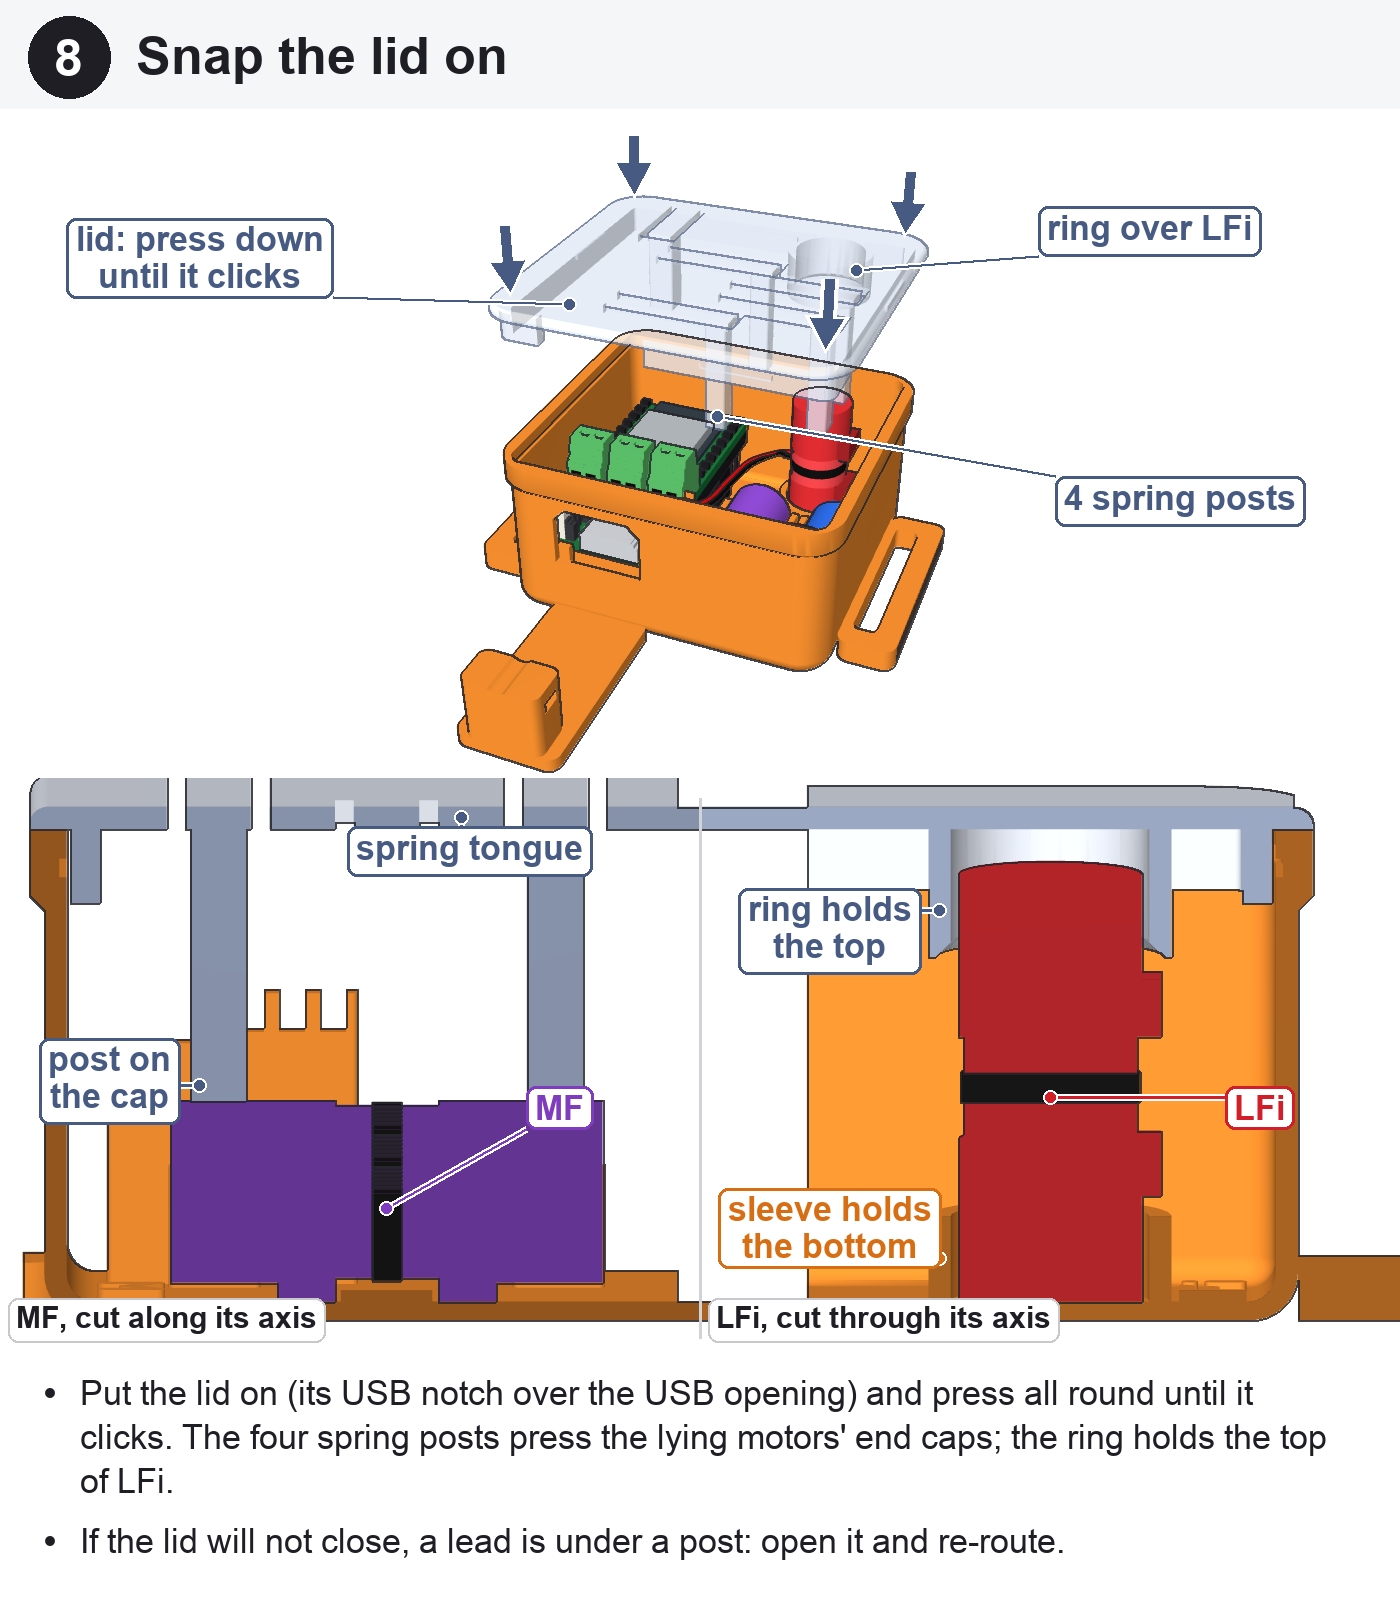
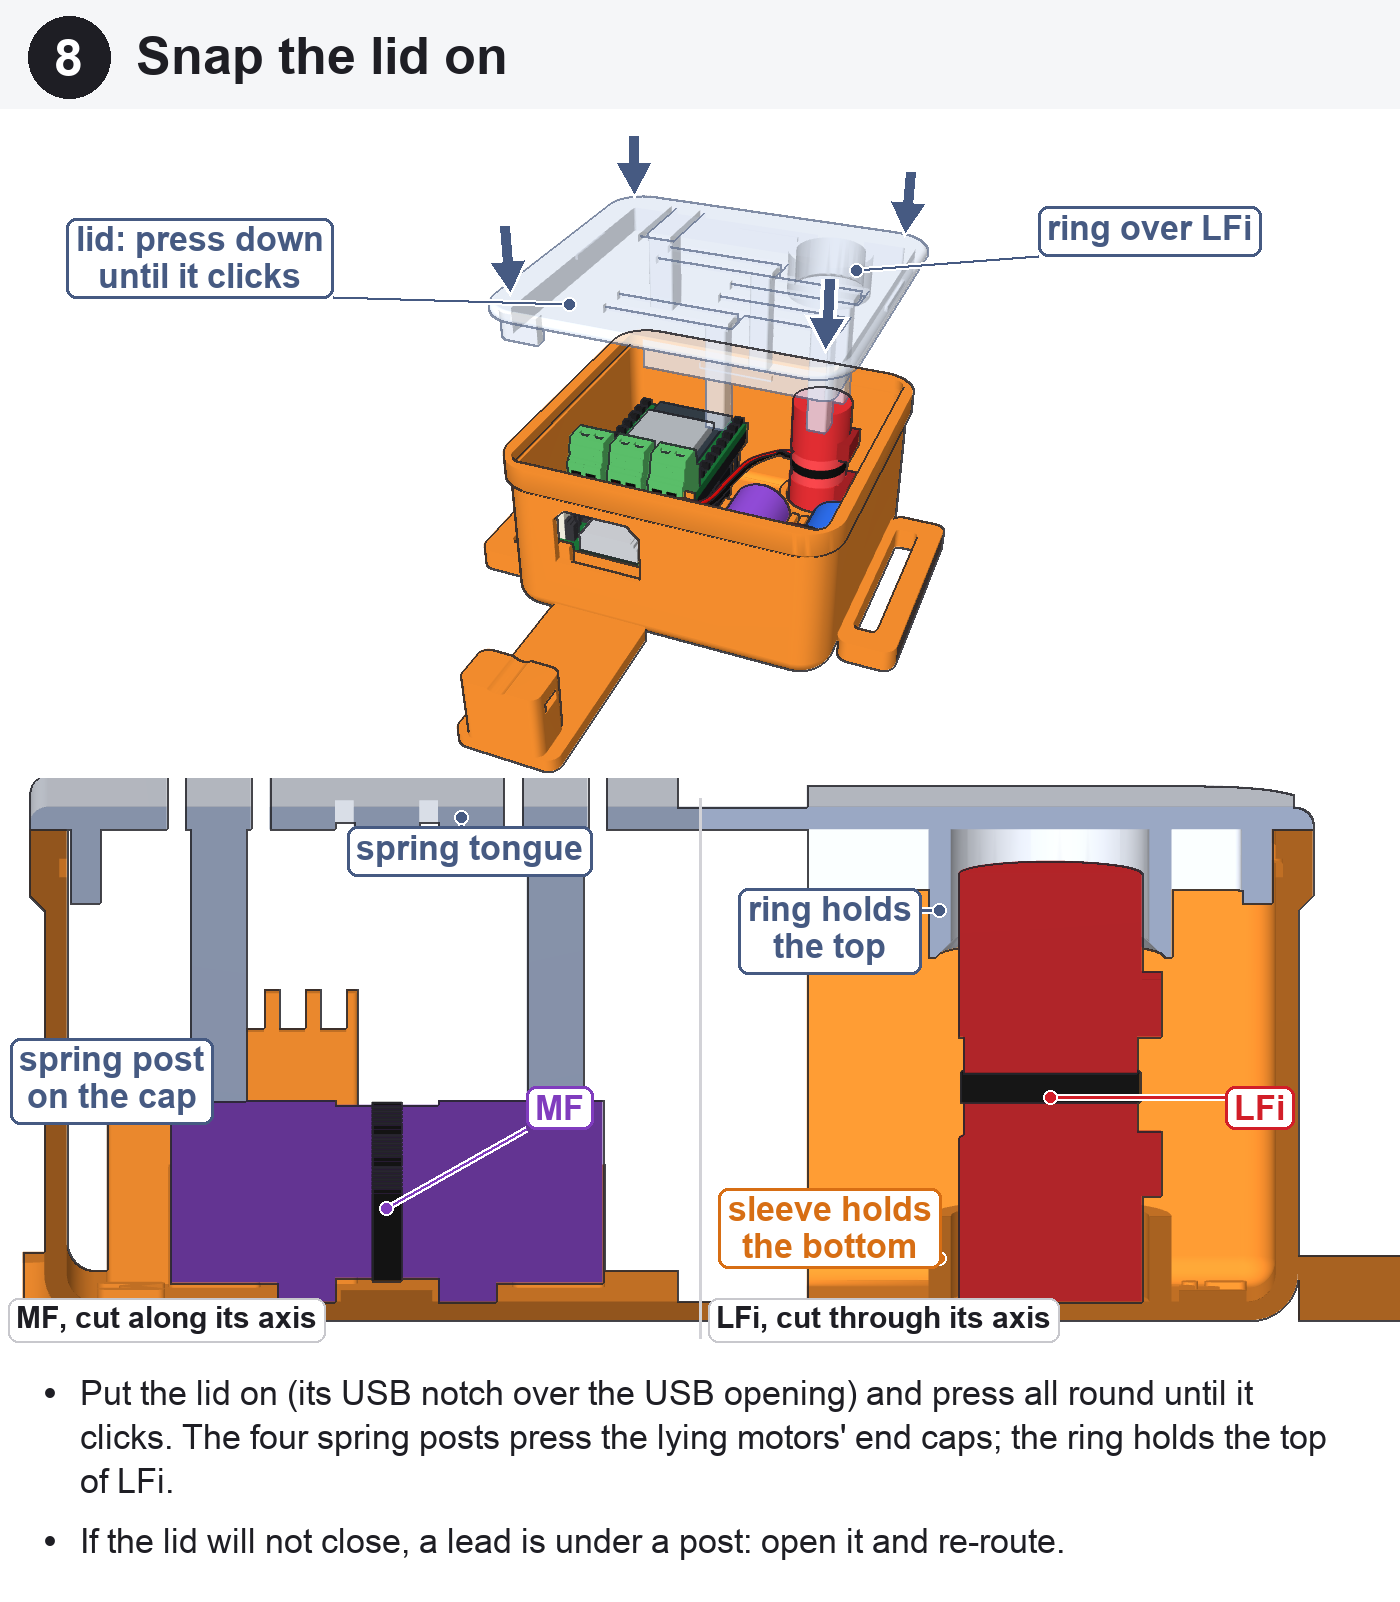
puck assembly: checker fixes to steps 3, 4, 6 and 8
- Step 4 cut-away: the feet are cut at the same plane as the base, so they stand on the floor line
  either side of the rib instead of appearing to sink into the floor.
- Step 6: the second "ledge" label was drawn off the panel (leader to nowhere); it is now in view.
- Step 8: the "4 spring posts" leader in the exploded view landed on the board; removed there, and
  the cut-away label now reads "spring post on the cap".
- Step 3 and ASSEMBLY.md: in Bluetooth mode only L and R are driven, so MF staying still is expected.
- sheet.png rebuilt.

Changed region(s): [[0.7371, 0.2809, 0.9214, 0.3433], [0.0, 0.6242, 0.1536, 0.7179], [0.4914, 0.2497, 0.645, 0.2809]]

diff --git a/hardware/titan-puck/assembly/build.py b/hardware/titan-puck/assembly/build.py
@@ -961,7 +961,9 @@ def step03():
     ink.text((24, 24), "Close-up, front view", size=30, col=INK, box=True)
     notes = ["Before the board goes in: MF to M, LF to L, LFi to R. Red lead to +, black lead to -.",
              "For each hole: 1 loosen the screw from the top, 2 push the bare end into the front hole, 3 tighten, "
-             "4 tug the lead gently: it must not come out."]
+             "4 tug the lead gently: it must not come out.",
+             "In Bluetooth mode only L and R are driven: LF and LFi vibrate, MF (on M) stays still. That is "
+             "expected."]
     return save(page(3, "Wire the motors to the screw terminals", [A, B], notes), "step03.png")
 
 
@@ -993,8 +995,10 @@ def step04():
     ghost.items = [it for it in ghost.items if it[0] != "box"]
     ghost.items = [it[:-1] + ((0.86, 0.80, 0.98, 1),) if it[-1] != COL["ring"] else it for it in ghost.items]
     sc.add(ghost, R, t, alpha=0.38, layer=0)
-    feet = Part("MF_feet")
-    feet.items = [it for it in motor_part("MF").items if it[0] == "box"]
+    feet = Part("MF_feet")  # cut at the same plane as the base (x <= MF axis), so they stand on the floor line
+    dark = tuple(v * 0.72 for v in COL["MF"][:3]) + (1,)
+    for y0 in (M.FOOT_START, L_MOT - M.FOOT_START - M.FOOT_LEN):
+        feet.box(-M.FOOT_W / 2, 0.0, y0, y0 + M.FOOT_LEN, -CAP_R - PROT, -CAP_R + 1.5, dark)
     sc.add(feet, R, t)
     lead_stubs(sc, R, t, "MF", rise=3.2)
     camB = Cam((M.MF[0], M.MOTOR_Y_C, 4.6), az=90, el=14, ortho=17.0, H=560)
@@ -1059,7 +1063,7 @@ def step06():
     A = render(sc, camA)
     ink = Ink(A, camA)
     ink.label((0.5, 7.0, M.PCB_BOTTOM), "ledge", (220, 420), RGB["base"])
-    ink.label((19.7, 7.0, M.PCB_BOTTOM), "ledge", (900, 640), RGB["base"])
+    ink.label((19.7, 7.0, M.PCB_BOTTOM), "ledge", (900, 515), RGB["base"])
     ink.label((5.0, 38.5, M.PCB_BOTTOM), "pillar", (220, 140), RGB["base"])
     ink.label((15.3, 38.5, M.PCB_BOTTOM), "pillar", (1180, 120), RGB["base"])
     ink.label((M.USB_X, M.IY0 - 0.6, M.USB_Z - 3), "USB-C opening", (330, 525), INK)
@@ -1158,8 +1162,7 @@ def step08():
         ink.arrow((x, y, M.INNER_H + lift + 12), (x, y, M.INNER_H + lift + 2.5), RGB["lid"], w=10, head=30)
     ink.label((M.IX0 + 10, M.IY0 + 4, M.INNER_H + lift + 1.2), "lid: press down\nuntil it clicks", (200, 140),
               RGB["lid"])
-    ink.label((M.SPRINGS["MF-front"][0], M.SPRINGS["MF-front"][1], M.SPRING_FREE_Z + lift + 1), "4 spring posts",
-              (1180, 380), RGB["lid"])
+    # The spring posts are labelled in the cut-away below: seen through the lifted lid they land over the board.
     ink.label((M.LFI[0] + 3, M.LFI[1] + 5, M.LFI_RING_Z0 + lift + 2), "ring over LFi", (1150, 110), RGB["lid"])
 
     lid_in = M.lid({**{n: LIFT_SPRING for n in M.SPRINGS}, "board": LIFT_BOARD})
@@ -1177,7 +1180,7 @@ def step08():
     B = render(sc, camB)
     ink = Ink(B, camB)
     px, py = M.SPRINGS["MF-front"]
-    ink.label((px, py - 1.0, ZC_LYING + CAP_R + 0.8), "post on\nthe cap", (110, 300), RGB["lid"])
+    ink.label((px, py - 1.0, ZC_LYING + CAP_R + 0.8), "spring post\non the cap", (112, 300), RGB["lid"])
     ink.label((M.MF[0], M.SPRINGS["MF-rear"][1] - 5.0, M.INNER_H + 0.6), "spring tongue", (470, 70), RGB["lid"])
     ink.label((M.MF[0], M.MF[1], 5), "MF", (560, 330), RGB["MF"])
     ink.text((16, 522), "MF, cut along its axis", size=30, col=INK, box=True)

diff --git a/hardware/titan-puck/assembly/ASSEMBLY.md b/hardware/titan-puck/assembly/ASSEMBLY.md
@@ -28,6 +28,7 @@ an example, so use the labels on your board. You cannot reach the jumper once th
 
 Do this before the board goes in. Connect MF to M, LF to L and LFi to R, with the red lead to + and the black lead to -.
 For each lead, loosen the screw from the top, push the bare end into the front hole, tighten the screw and tug the lead.
+In Bluetooth mode only L and R are driven, so LF and LFi vibrate and MF (on M) stays still. That is expected.
 
 ## 4. Lay LF and MF in their cradles, feet down
 
